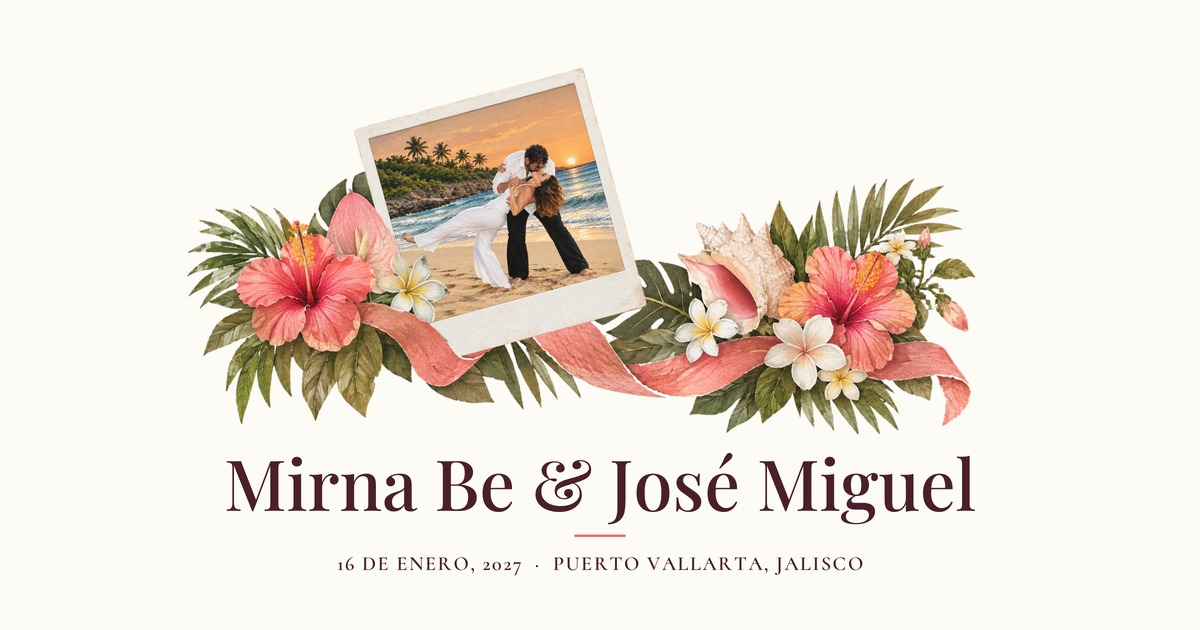
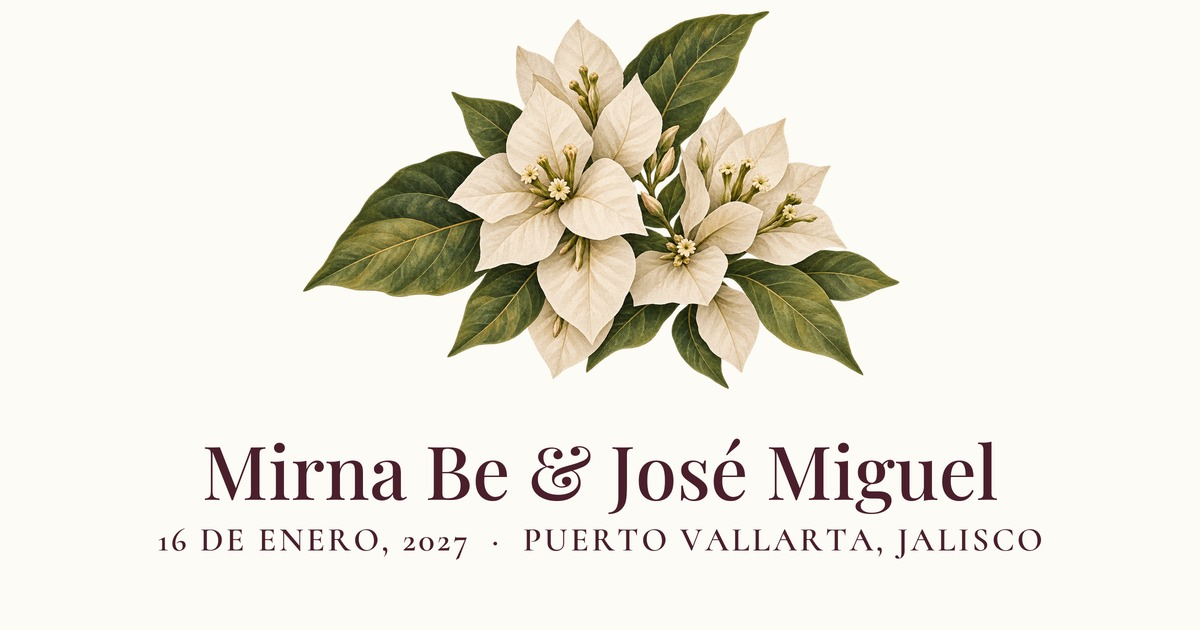
WhatsApp thumbnail: new bougainvillea cover, bigger date/place, no divider
Divider read as squished at thumbnail size, so it's dropped here (the
site itself keeps it).

Changed region(s): [[0.1542, 0.0, 0.8633, 0.9048], [0.1233, 0.8444, 0.4317, 0.9048]]

diff --git a/index.html b/index.html
@@ -14,7 +14,7 @@
 -->
 <meta property="og:title" content="Mirna Be & José Miguel — ¡Nos Casamos!" />
 <meta property="og:description" content="Acompáñanos a celebrar. 16 de enero, 2027 · Puerto Vallarta, Jalisco" />
-<meta property="og:image" content="assets/og/og-image.jpg?v=8" />
+<meta property="og:image" content="assets/og/og-image.jpg?v=9" />
 <meta property="og:type" content="website" />
 
 <link rel="preconnect" href="https://fonts.googleapis.com" />
